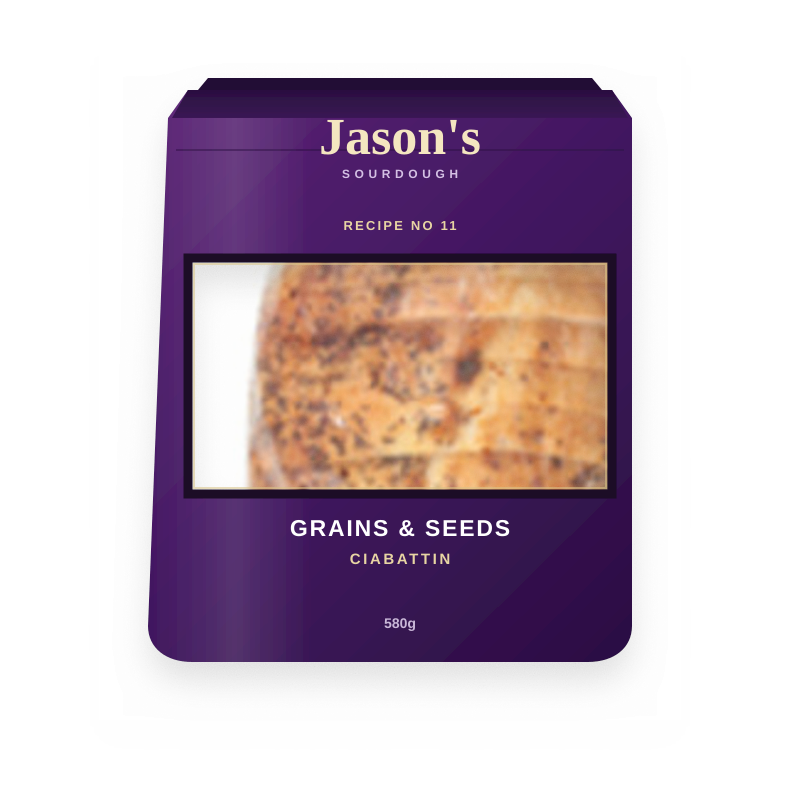
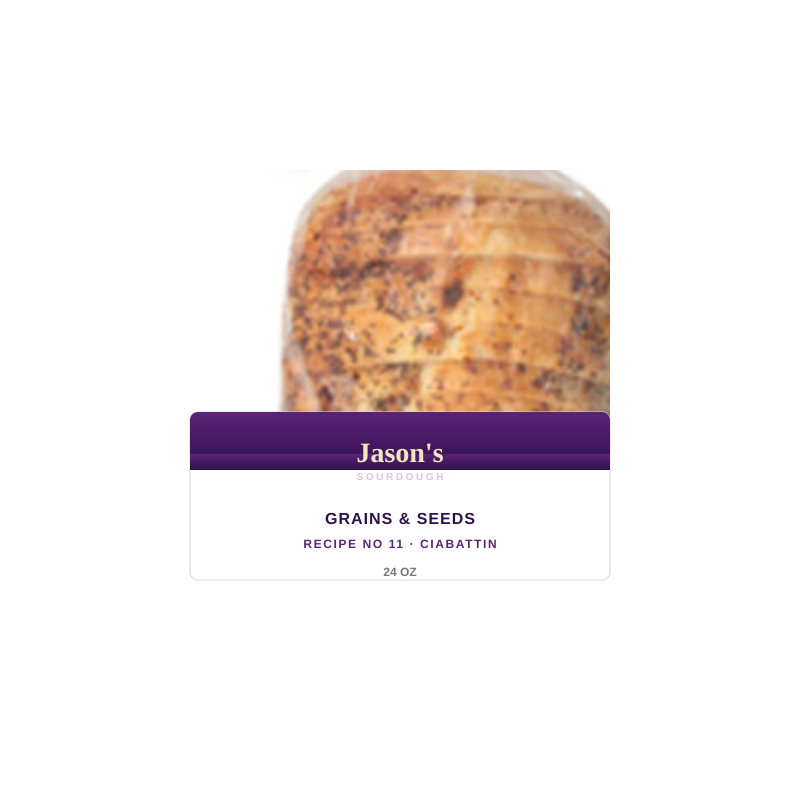
Match Same-Day pack sizes, Buy it again, and Jason's loaf photo
Add Instacart-style size lines and a Buy it again aisle without changing Kirk's catalog. Rebuild the Jason's tile from a photographic seeded loaf with a Jason's band, and give Ask Kirk Gold Star membership chrome.

diff --git a/components/AskKirkChat.tsx b/components/AskKirkChat.tsx
@@ -494,7 +494,7 @@ export default function AskKirkChat({ isOpen, onClose }: AskKirkChatProps) {
     <>
     <aside className="fixed inset-y-0 right-0 z-40 w-full max-w-[420px] lg:static lg:z-30 lg:w-[380px] xl:w-[420px] lg:max-w-none shrink-0 bg-white border-l border-[#e5e5e5] h-full flex flex-col">
       <div className="shrink-0 border-b border-[#e5e5e5] bg-white">
-        <div className="h-[5px] bg-costco-red" />
+        <div className="h-2 bg-costco-red" />
         <div className="px-3.5 py-2.5 flex items-center justify-between gap-2">
           <div className="flex items-center gap-2.5 min-w-0">
             <KirkMark size={36} className="shrink-0" />
@@ -502,14 +502,11 @@ export default function AskKirkChat({ isOpen, onClose }: AskKirkChatProps) {
               <h2 className="text-[17px] font-black tracking-tight text-[#1a1a1a] leading-none">
                 Ask Kirk
               </h2>
-              <p className="mt-[5px] leading-none">
-                <span className="block text-[10px] font-extrabold tracking-[0.24em] text-costco-red uppercase">
-                  Kirkland
-                </span>
-                <span className="block w-[72px] h-px bg-costco-blue my-[3px]" />
-                <span className="block text-[9px] font-bold tracking-[0.32em] text-costco-blue uppercase">
-                  Signature
-                </span>
+              <p className="mt-1 text-[10px] font-extrabold tracking-[0.18em] text-costco-red uppercase">
+                Gold Star Membership
+              </p>
+              <p className="mt-[3px] text-[9px] font-bold tracking-[0.22em] text-costco-blue uppercase">
+                Kirkland Signature
               </p>
             </div>
           </div>
@@ -534,7 +531,7 @@ export default function AskKirkChat({ isOpen, onClose }: AskKirkChatProps) {
             </button>
           </div>
         </div>
-        <div className="h-[5px] bg-costco-blue" />
+        <div className="h-2 bg-costco-blue" />
         <p className="px-3.5 py-1.5 flex items-center gap-1.5 text-[11px] text-[#188038] font-semibold bg-[#f3f3f3] border-b border-[#ececec]">
           <span className="w-1.5 h-1.5 rounded-full bg-[#0AAD0A]" />
           Delivery 8:48–9:18pm · 11217 Brooklyn · Membership required

diff --git a/lib/data/products.ts b/lib/data/products.ts
@@ -167,7 +167,7 @@ export const products: Product[] = [
     savings: 1.45,
     image: "/products/5.png",
     inStock: true,
-    tags: ["trending", "catering"],
+    tags: ["trending", "catering", "again"],
     rating: 4.3,
     reviewCount: 423,
     reviews: [
@@ -274,7 +274,7 @@ export const products: Product[] = [
     savings: 1.61,
     image: "/products/8.png",
     inStock: true,
-    tags: ["dairy"],
+    tags: ["dairy", "again"],
     rating: 3.9,
     reviewCount: 406,
     reviews: [
@@ -303,7 +303,7 @@ export const products: Product[] = [
     price: 2.71,
     originalPrice: 4.0,
     savings: 1.29,
-    image: "/products/9.png?v=10",
+    image: "/products/9.png?v=11",
     inStock: true,
     tags: ["bakery"],
     rating: 3.9,
@@ -343,7 +343,7 @@ export const products: Product[] = [
     savings: 6.0,
     image: "/products/10.png",
     inStock: true,
-    tags: ["kirkland", "treasure"],
+    tags: ["kirkland", "treasure", "again"],
     rating: 4.9,
     reviewCount: 1842,
     reviews: [
@@ -760,7 +760,7 @@ export const products: Product[] = [
     savings: 2.0,
     image: "/products/23.png",
     inStock: true,
-    tags: ["dairy", "kirkland"],
+    tags: ["dairy", "kirkland", "again"],
     rating: 4.9,
     reviewCount: 35,
     reviews: [
@@ -791,7 +791,7 @@ export const products: Product[] = [
     savings: 2.0,
     image: "/products/24.png",
     inStock: true,
-    tags: ["weekly", "trending", "catering", "recipes"],
+    tags: ["weekly", "trending", "catering", "recipes", "again"],
     rating: 4.9,
     reviewCount: 12847,
     reviews: [
@@ -840,6 +840,12 @@ export const departments = [
 ];
 
 export const categories = [
+  {
+    id: "again",
+    name: "Buy it again",
+    icon: "🛒",
+    image: "/products/cat-again.jpg",
+  },
   {
     id: "treasure",
     name: "Treasure Hunt",
@@ -921,6 +927,7 @@ export function filterProducts(filters: ProductFilters = {}): Product[] {
           tags.includes("catering") ||
           ["dips", "nuts", "snacks", "bakery"].includes(p.category)
         );
+      if (tag === "again") return tags.includes("again");
       return tags.includes(tag) || p.department.toLowerCase().includes(tag);
     }
 

diff --git a/components/DepartmentsSidebar.tsx b/components/DepartmentsSidebar.tsx
@@ -108,7 +108,7 @@ export default function DepartmentsSidebar({
                       setQuery("");
                       void search();
                     }}
-                    className={`w-full text-left px-2 py-[6px] text-[13px] transition-colors border-l-[3px] flex items-center justify-between gap-1.5 ${
+                    className={`w-full text-left px-2 py-2 text-[13px] transition-colors border-l-[3px] flex items-center justify-between gap-1.5 ${
                       active
                         ? "border-costco-blue bg-[#e8f2fa] text-costco-blue font-bold"
                         : "border-transparent text-[#333] hover:bg-[#f6f6f6] hover:text-costco-blue"
@@ -120,7 +120,7 @@ export default function DepartmentsSidebar({
                       <img
                         src={aisleThumbs[dept]}
                         alt=""
-                        className="w-8 h-8 rounded-full object-cover bg-[#f3f3f3] border border-[#ececec] shrink-0"
+                        className="w-10 h-10 rounded-full object-cover bg-[#f3f3f3] border border-[#ececec] shrink-0"
                       />
                       <span className="leading-snug line-clamp-2">{dept}</span>
                     </span>

diff --git a/components/CartDrawer.tsx b/components/CartDrawer.tsx
@@ -2,6 +2,7 @@
 
 import { Minus, Plus, Trash2, X } from "lucide-react";
 import { useCartStore } from "@/lib/store/cart";
+import { productSize } from "@/lib/ui/packSize";
 
 export default function CartDrawer() {
   const isOpen = useCartStore((s) => s.isOpen);
@@ -67,6 +68,11 @@ export default function CartDrawer() {
                   <p className="text-[14px] text-[#1a1a1a] leading-snug line-clamp-2">
                     {product.brand} {product.name}
                   </p>
+                  {productSize(product.id) && (
+                    <p className="text-[12px] text-[#6b6b6b] mt-0.5">
+                      {productSize(product.id)}
+                    </p>
+                  )}
                   <p className="text-[15px] font-bold text-[#1a1a1a] mt-1 tabular-nums">
                     ${product.price.toFixed(2)}{" "}
                     <span className="text-[12px] font-normal text-[#8a8a8a]">

diff --git a/components/ProductCard.tsx b/components/ProductCard.tsx
@@ -4,6 +4,7 @@ import { useState } from "react";
 import { Check, Minus, Plus } from "lucide-react";
 import type { Product } from "@/lib/data/products";
 import { useCartStore } from "@/lib/store/cart";
+import { productSize } from "@/lib/ui/packSize";
 
 function AddControl({ product }: { product: Product }) {
   const qty = useCartStore(
@@ -125,6 +126,11 @@ export default function ProductCard({
         <h3 className="text-[14px] font-normal text-[#242424] leading-snug mt-1.5 line-clamp-3">
           {product.brand} {product.name}
         </h3>
+        {productSize(product.id) && (
+          <p className="text-[14px] leading-[18px] text-[#72767E] mt-0.5">
+            {productSize(product.id)}
+          </p>
+        )}
         <p className="text-[12px] text-[#188038] mt-0.5">
           {product.inStock ? "Many in stock" : "Out of stock"}
         </p>

diff --git a/components/ProductDetailModal.tsx b/components/ProductDetailModal.tsx
@@ -4,6 +4,7 @@ import { X, Check, Plus, Star } from "lucide-react";
 import type { Product } from "@/lib/data/products";
 import { useCartStore } from "@/lib/store/cart";
 import StarRating from "@/components/StarRating";
+import { productSize } from "@/lib/ui/packSize";
 import { useState } from "react";
 
 export default function ProductDetailModal({
@@ -69,6 +70,11 @@ export default function ProductDetailModal({
             <h2 className="text-[22px] font-bold text-[#1a1a1a] leading-snug">
               {product.brand} {product.name}
             </h2>
+            {productSize(product.id) && (
+              <p className="text-[14px] text-[#6b6b6b] mt-1">
+                {productSize(product.id)}
+              </p>
+            )}
             <div className="mt-2">
               <StarRating
                 rating={product.rating}

diff --git a/lib/ui/packSize.ts b/lib/ui/packSize.ts
@@ -1,0 +1,31 @@
+/** Display-only pack sizes. Not part of Product / Kirk catalog. */
+export const PRODUCT_SIZES: Record<string, string> = {
+  "1": "3.5 lb",
+  "2": "36 oz",
+  "3": "8 x 14.5 oz",
+  "4": "3 x 24 oz",
+  "5": "32 oz",
+  "6": "17 oz",
+  "7": "15 oz",
+  "8": "32 oz",
+  "9": "24 oz",
+  "10": "2 L",
+  "11": "4.5 lb",
+  "12": "4 lb",
+  "13": "1 ct",
+  "14": "6 ct",
+  "15": "12 ct",
+  "16": "1.5 L",
+  "17": "2 ct",
+  "18": "1 ct",
+  "19": "170 loads",
+  "20": "4 pairs",
+  "21": "2 x 2.5 lb",
+  "22": "14 in",
+  "23": "24 ct",
+  "24": "1 ct",
+};
+
+export function productSize(id: string): string | undefined {
+  return PRODUCT_SIZES[id];
+}

diff --git a/components/ProductGrid.tsx b/components/ProductGrid.tsx
@@ -95,6 +95,11 @@ export default function ProductGrid() {
 
   const aisles: Aisle[] = [
     {
+      title: "Buy it again",
+      items: filtered.filter((p) => p.tags?.includes("again")),
+      onShowAll: () => showAisle({ tag: "again" }),
+    },
+    {
       title: "Weekly Savings",
       items: filtered.filter(
         (p) => p.department === "Weekly Savings" || p.tags?.includes("weekly")
